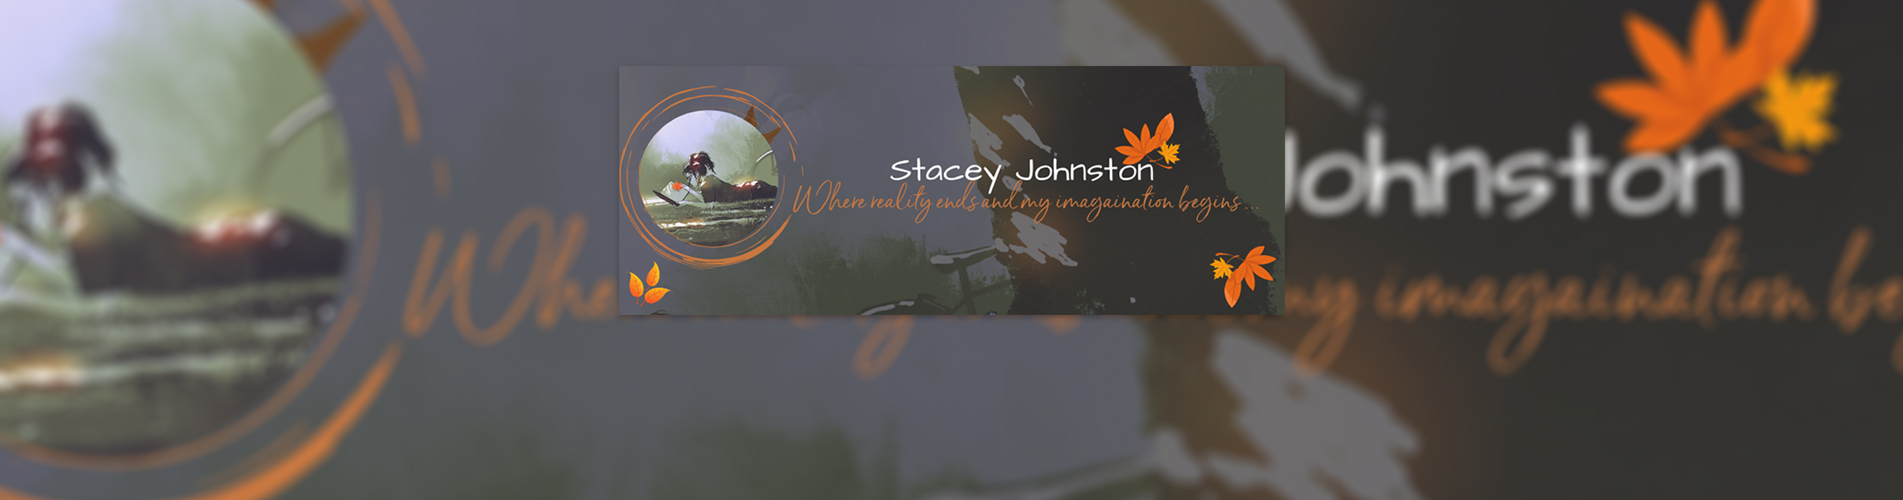
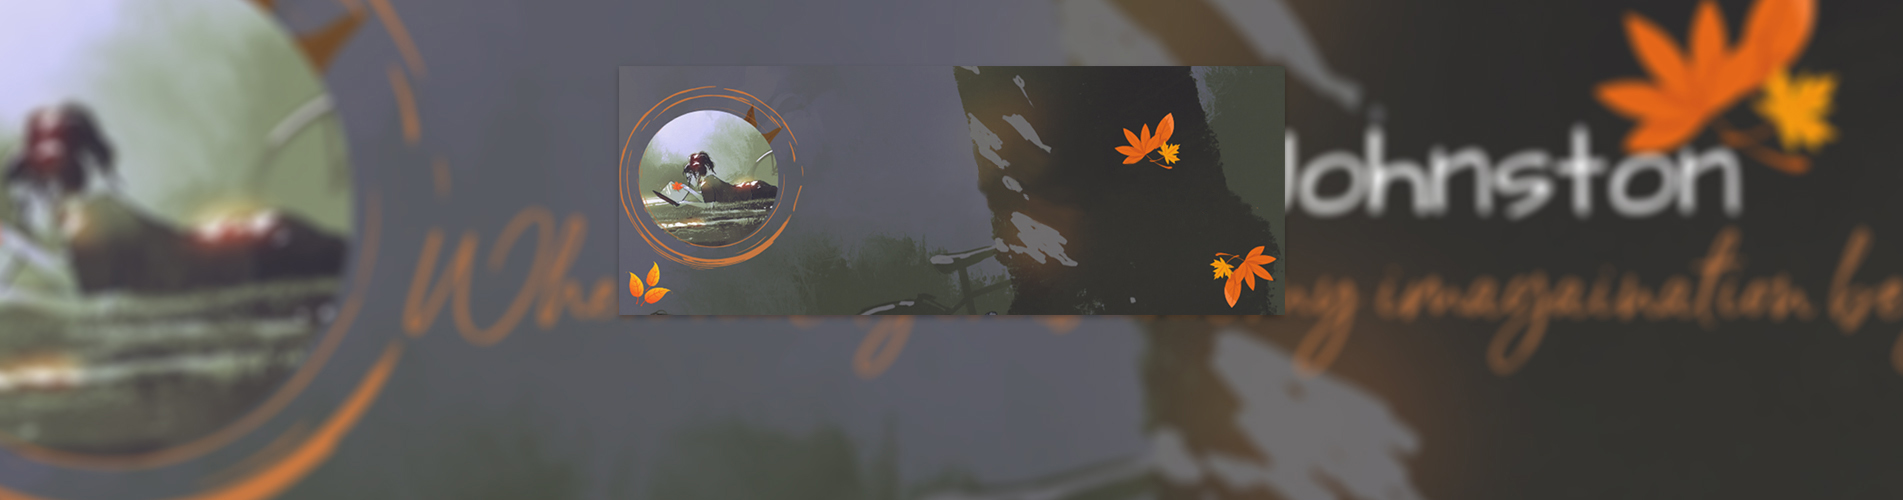
added au photo, updated au content

Changed region(s): [[0.403, 0.33, 0.6511, 0.42]]

diff --git a/src/pages/about-the-author.js b/src/pages/about-the-author.js
@@ -2,7 +2,7 @@ import React from 'react'
 import Layout from '../components/layout'
 import Nav from '../components/nav'
 import Banner from '../components/non-front-banner'
-import AuthorImg from '../../static/author/dummy.png'
+import AuthorImg from '../../static/author/author.jpg'
 
 const ATB = (props) => {
 
@@ -25,7 +25,7 @@ const ATB = (props) => {
 
                             <div className="heading-quote">
                                 <h4>
-
+                                    If I were normal ... life would be boring
                                 </h4>
                                 <span className="ata-span-fx">
                                 </span>
@@ -35,10 +35,32 @@ const ATB = (props) => {
 
                         <article className="article-section column" id="author">
                             <p>
-                            Stacey Johnston was raised in Perth, Western Australia. She is a wife and mum to four children.
+                                Stacey become a writer, so she could share the stories her vivid imagination creates with readers who are willing to give a seemingly unknown author a chance.
                             </p>
-                            <p>Having been an avid reader most of her life, Stacey finds herself most at ease when she can lose herself in stories of romance and mystery.</p>
-                            <p>Stacey has a creative way of bringing suspense into her stories which keeps her reader hanging onto every word to find out how it ends.</p>
+                            <p>
+                                Currently Stacey resides in an extremely dry and hot mining town located in northern Western Australia. With her husband alongside her, she spends her days tinting paint and serving customers in a paint store.
+                            </p>
+                            <p>
+                                Story telling has always been a big part of who Stacey is and it was her love of telling stories that saw her transfer the visions she sees in her mind onto paper. Disappearing into another world and imagining she is there whilst reading or writing excites her and is something she adores sharing with others.
+                            </p>
+                            <p>
+                                If it’s a particular genre you’re seeking, Stacey may have something that will catch your eye.
+                            </p>
+                            <p>
+                                After publishing her debut novel in 2016 – a romantic suspense story full of intrigue and mystery, which developed into a series; she went on to also publish a romantic comedy based on an Aussie author attending her first author signing in the United States.
+                            </p>
+                            <p>
+                                So not to limit herself, and to aid in coping with a family member who was struggling with Depression and Anxiety, Stacey has also created a beautiful story called After the Rain.
+                            </p>
+                            <p>
+                                Out of all the books Stacey has written this one is her favourite as it tells the story of a man struggling with his mental health issues and the impact it was having on his family.
+                            </p>
+                            <p>
+                                The important addition of surprise, mystery and intrigue she adds to each of her books leaves her readers hanging on to every word, wanting more. 
+                            </p>
+                            <p>
+                                The moto ‘If I were normal, life would be boring’ is not only something Stacey lives by in her everyday life, but also something she brings to her books. Creativity, and a vivid imagination, has helped her shaped many stories that she hopes you love as much as she does. 
+                            </p>
 
                             <p>
                                 <span className="author-name">

diff --git a/src/components/author.js b/src/components/author.js
@@ -1,6 +1,6 @@
 import React from 'react'
 import { Link } from 'gatsby'
-import AuthorImg from '../../static/author/dummy.png'
+import AuthorImg from '../../static/author/author.jpg'
 
 const Author = () => {
     return (
@@ -11,8 +11,7 @@ const Author = () => {
                     <div className="grid-child" id="author-contents">
 
                         <p data-aos="fade-up" data-aos-duration="2000">
-                            Stacey Johnston was raised in Perth, Western Australia. She is a wife and mum to four children.
-
+                            Stacey become a writer, so she could share the stories her vivid imagination creates with readers who are willing to give a seemingly unknown author a chance.
                         </p>
 
                         <h1 className="author-name-tag" data-aos="fade-right" data-aos-offset="300" data-aos-easing="ease-in-sine">

diff --git a/src/assets/scss/pages.scss b/src/assets/scss/pages.scss
@@ -77,7 +77,7 @@ $prm-font-size: 12px;
 	text-align: center;
 
 	img {
-		width: 305px;
+		width: 400px;
 		border: 12px solid #e0e0db57;
 	}
 }

diff --git a/src/assets/scss/content.scss b/src/assets/scss/content.scss
@@ -604,7 +604,7 @@
 
 #author-image-container {
 	img {
-		width: 272px;
+		width: 600px;
 		max-width: 100%;
 	}
 }
